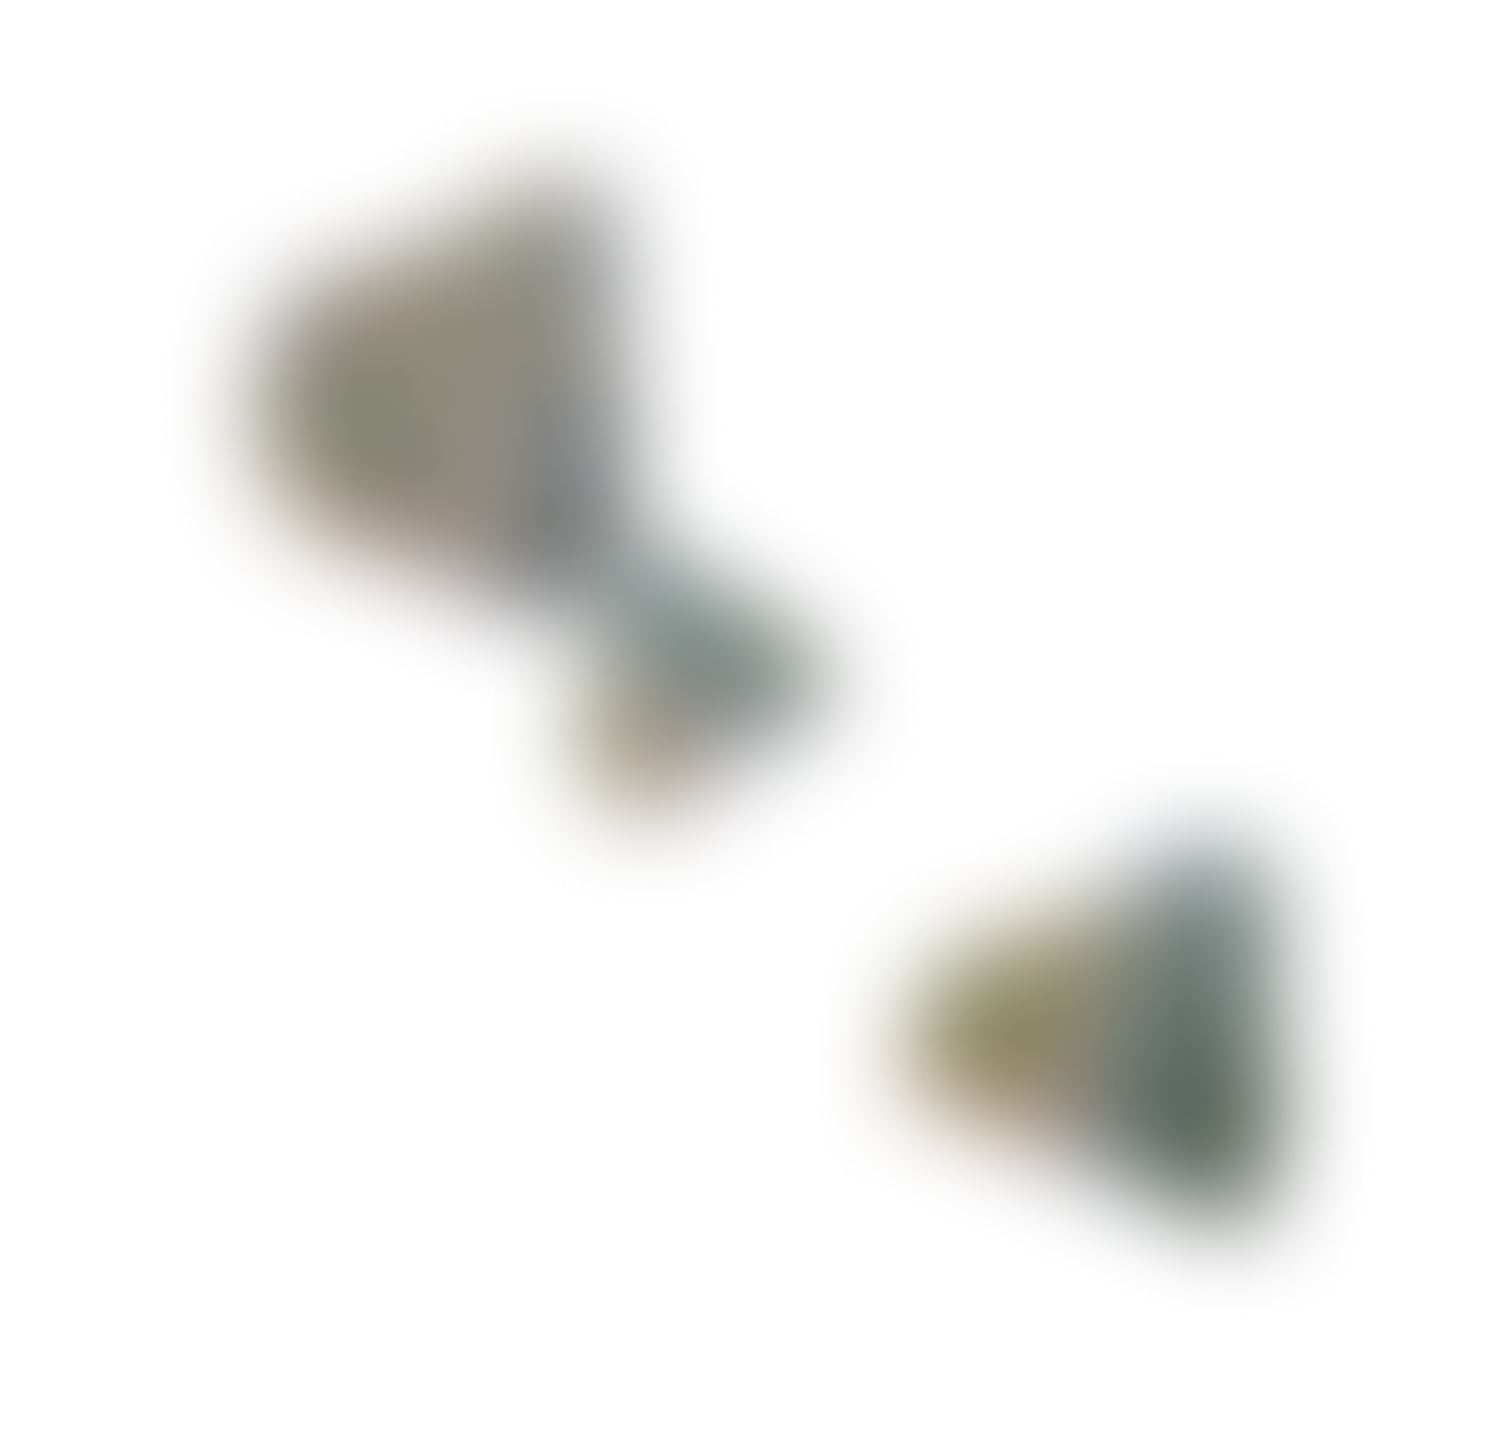
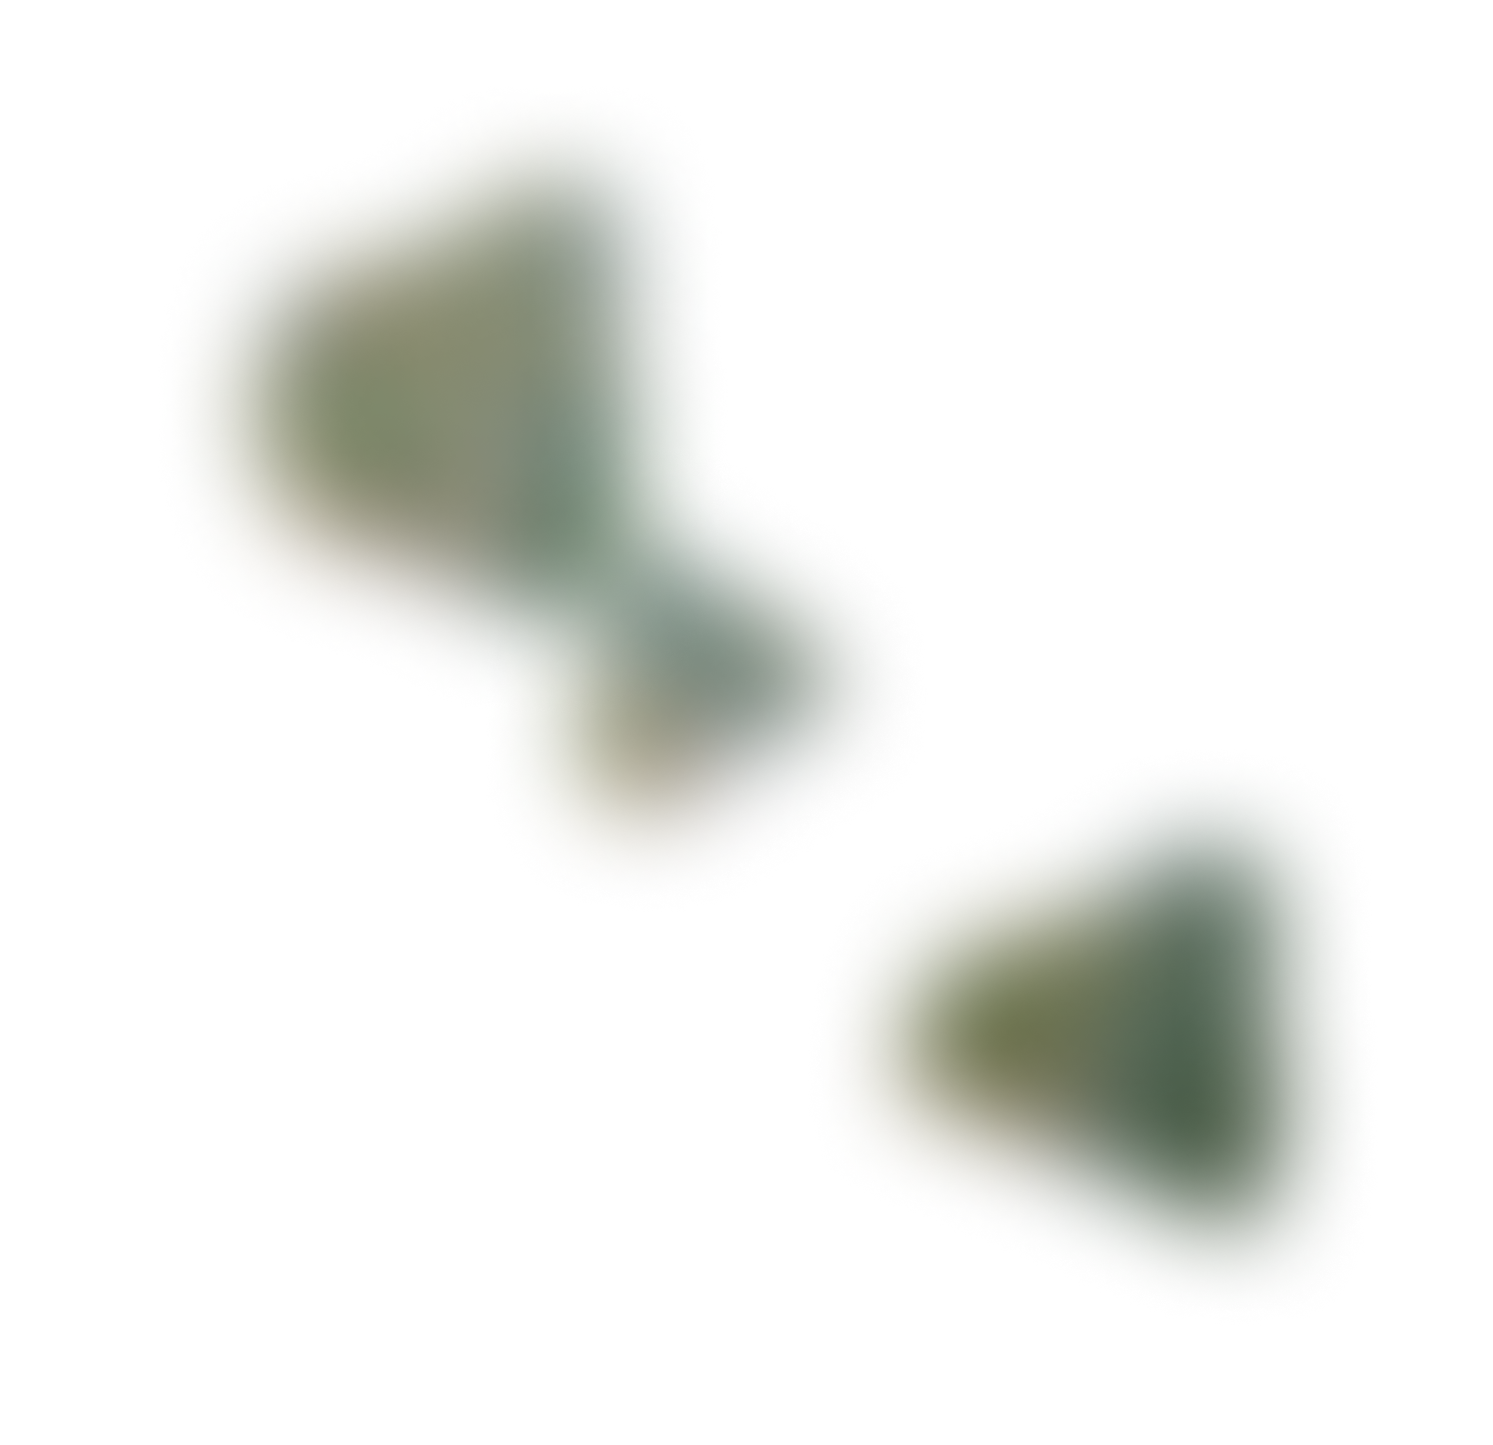
update all style  pages

Changed region(s): [[0.6162, 0.6228, 0.8319, 0.7785]]

diff --git a/components/pagination.js b/components/pagination.js
@@ -1,33 +1,50 @@
 /* eslint-disable react/jsx-key */
 import React from "react";
+import { useRouter } from "next/router";
 
-const MAX_ITEMS = 5;
+const MAX_ITEMS = 7;
 const MAX_LEFT = (MAX_ITEMS - 1) / 2;
 
 const Pagination = ({ limit, total, offset, setOffset }) => {
   const current = offset ? offset / limit + 1 : 1;
   const pages = Math.ceil(total / limit);
   const firstPage = Math.max(current - MAX_LEFT, 1);
+  const router = useRouter();
 
   return (
-    <ul className="pagination">
-      {Array.from({ length: Math.min(MAX_ITEMS, pages) })
-        .map((_, index) => index + firstPage)
-        .map((page) =>
-          total - (page * limit) + limit <= 0 ? (
-            ""
-          ) : (
-            <li key={page}>
-              <button
-                onClick={() => setOffset((page - 1) * limit)}
-                className={page === current ? "pagination__item--active" : null}
-              >
-                {page}
-              </button>
-            </li>
-          )
-        )}
-    </ul>
+      <ul className="pagination flex list-none justify-center pb-12">
+        {Array.from({ length: Math.min(MAX_ITEMS, pages) })
+          .map((_, index) => index + firstPage)
+          .map((page) =>
+            total - page * limit + limit <= 0 ? (
+              ""
+            ) : (
+              <li key={page}>
+                <button
+                  onClick={() => setOffset((page - 1) * limit)}
+                  className={`  ${
+                    page === current && router.pathname == "/characters"
+                      ? " bg-[#955E73] text-white border-none w-6 rounded-sm font-bold"
+                      : null
+                  }
+                ${
+                  page === current && router.pathname == "/comics"
+                    ? " bg-[#5E9595] text-white border-none w-6 rounded-sm font-bold"
+                    : null
+                }
+                ${
+                  page === current && router.pathname == "/series"
+                    ? " bg-[#64A94C] text-white border-none w-6 rounded-sm font-bold"
+                    : null
+                }
+                `}
+                >
+                  {page}
+                </button>
+              </li>
+            )
+          )}
+      </ul>
   );
 };
 

diff --git a/styles/globals.css b/styles/globals.css
@@ -37,17 +37,9 @@ html,
 @import url('http://fonts.cdnfonts.com/css/nimbus-sans-l');
 @import url('https://fonts.googleapis.com/css2?family=Poppins:wght@500&display=swap');
 
-/* all pages */
-section.caixa {
-    width: 100%;
-    background-color: #00000000;
-    border-radius: 18px;
-    border-width: 3px;
-}
+/* Cards*/
 
 .card {
-  opacity : 35%;
-  cursor: pointer;
   transition: 0.2s;
 }
 
@@ -68,7 +60,7 @@ section.caixa {
   opacity: 1;
 }
 
-/* Home */
+/* Backgrounds */
 
 .wppHome {
   background-color: #0B0B0C;
@@ -78,8 +70,6 @@ section.caixa {
   width: 100vw;
   height: 100vh;
 }
-
-/* Characters */
 
 .wppCharacters {
   background-color: #0B0B0C;
@@ -105,57 +95,30 @@ section.caixa {
   background-size: cover;
 }
 
-/* navbar Style */
+/* .bordaS {
+  border-radius: 15px;
+  border: 4px solid transparent;
+  background: linear-gradient(to right, #41383C, #64A94C, #41383C); 
+  -webkit-mask: 
+     linear-gradient(#fff 0 0) padding-box, 
+     linear-gradient(#fff 0 0);
+  -webkit-mask-composite: xor; 
+          mask-composite: exclude; 
+          
+} */
 
-.navbar.active {
-  background-color: #0b0b0c;
-}
-
-.navbar {
-  z-index: 10;
-}
-
-.imgCard {
-    width: 200px;
-    height: 200px;
-    border-radius: 8px;
-}
-
-
-/* buttons */
-
-.button {
-  border: solid;
-  border-width: 1.9px;
-  color: white;
-  border-radius: 8px;
-  display: inline-block;
-  margin: 32px 0px 0px 0px;
-  cursor: pointer;
-}
-
-input::placeholder{
-  color: #767676;  
-}
-
-.pagination {
-  display: flex;
-  align-items: center;
-  text-align: center;
-  list-style: none;
-}
+/* Others */
 
 .pagination li + li {
   margin-left: 1rem;
 }
 
-.pagination__item--active {
-  background: #B7758E;
-  font-weight: bold;
-  color: #ffffff;
-  border: none;
-  width: 25px;
-  border-radius: 3px;
+.navbar.active {
+  background-color: #0b0b0c;
+}
+
+input::placeholder{
+  color: #767676;  
 }
 
 /* .behind {

diff --git a/pages/series/index.js b/pages/series/index.js
@@ -85,14 +85,14 @@ export default function Series() {
           onKeyDown={(e) => setInput(e.target.value)}
         />
         <button
-          className="border-none px-4 flex my-[4.5px] items-center h-7 rounded bg-[#EBF1A5] text-sm"
+          className="border-none px-4 flex my-[4.5px] items-center h-7 rounded bg-[#64A94C] text-sm"
           type="button"
         >
           Ok
         </button>
       </div>
 
-      <section className="caixa my-12 border-[#EBF1A5]">
+      <section className="bordaS w-full bg-black bg-opacity-0 rounded-4xl border-4 my-12">
         <div className="py-14 md:mx-12 mx-2 block">
           <ul className="lista gap-x-20 gap-y-12 list-none flex justify-center flex-wrap">
             {loading ? (
@@ -103,11 +103,11 @@ export default function Series() {
                   <section key={serie.id} className="behind">
                     <div className="caixinhas">
                       <li
-                        className="card flex relative items-end overflow-hidden"
+                        className="card cursor-pointer opacity-30 flex relative items-end overflow-hidden"
                         key={serie.id}
                         onClick={() => handleOpenModal(serie)}
                       >
-                        <div className="bg-[#EBF1A5] absolute z-10 text-sm truncate max-card text-center w-full p-2 rounded-bl-lg rounded-br-lg">
+                        <div className="bg-[#64A94C] absolute z-10 text-sm truncate max-card text-center w-full p-2 rounded-bl-lg rounded-br-lg">
                           {serie.title}
                         </div>
                         <Image

diff --git a/pages/comics/index.js b/pages/comics/index.js
@@ -91,7 +91,7 @@ export default function Comics() {
         </button>
       </div>
       
-      <section className="caixa border-[#5E9595] my-12">
+      <section className="w-full bg-black bg-opacity-0 rounded-2xl border-4 my-12 border-[#5E9595] ">
         <div className="py-14 md:mx-12 mx-2 block">
           <ul className="lista gap-x-20 gap-y-12 list-none flex justify-center flex-wrap">
             {loading ? (
@@ -102,7 +102,7 @@ export default function Comics() {
                   <section key={comic.id} className="behind">
                     <div className="caixinhas">
                       <li
-                        className="card flex relative items-end overflow-hidden"
+                        className="card cursor-pointer opacity-30 flex relative items-end overflow-hidden"
                         key={comic.id}
                         onClick={() => handleOpenModal(comic)}
                       >
@@ -113,7 +113,7 @@ export default function Comics() {
                           width="150"
                           height="230"
                           loader={myLoader}
-                          className="imgCard"
+                          className="rounded-lg object-cover"
                           src={`${comic.thumbnail.path}.${comic.thumbnail.extension}`}
                           alt={comic.title}
                         />

diff --git a/pages/characters/index.js b/pages/characters/index.js
@@ -92,7 +92,7 @@ export default function Characters() {
         </button>
       </div>
 
-      <section className="caixa my-12 border-[#955E73]">
+      <section className=" w-full bg-black bg-opacity-0 rounded-2xl border-[3px] my-12 border-[#955E73]">
         <div className="py-14 md:mx-12 mx-2 block">
           <ul className="lista gap-x-20 gap-y-12 list-none flex justify-center flex-wrap">
             {loading ? (
@@ -103,7 +103,7 @@ export default function Characters() {
                   <section key={character.id} className="behind">
                     <div className="caixinhas">
                       <li
-                        className="card flex relative items-end overflow-hidden"
+                        className="card cursor-pointer opacity-30 flex relative items-end overflow-hidden"
                         key={character.id}
                         onClick={() => handleOpenModal(character)}
                       >

diff --git a/pages/index.js b/pages/index.js
@@ -7,7 +7,7 @@ export default function App() {
       <p className="md:text-sm md:text-start text-center text-xs md:w-1/4 md:px-0 px-20 "> Aqui você vai poder encontrar todos os dados que a API da marvel fornece! Como personagens, histórias em quadrinhos, séries, etc.</p>
       <div className="md:text-start text-center">
       <Link href="https://github.com/strawnico/MarvelPage">
-       <a className="button md:py-2 py-1 md:px-10 px-4 md:text-base text-sm" target="blank" type="button" >Repositório</a>
+       <a className=" border-solid border-2 cursor-pointer text-white rounded-lg mt-8 md:py-2 py-1 md:px-10 px-4 md:text-base text-sm" target="blank" type="button" >Repositório</a>
       </Link>
       </div>
     </div>

diff --git a/components/navbar.js b/components/navbar.js
@@ -22,7 +22,7 @@ function Navbar() {
   }
 
   return (
-    <nav className={navbar ? "navbar active w-full fixed background-image" : "w-full fixed" }>
+    <nav className={navbar ? "navbar active z-10 w-full fixed background-image" : "w-full fixed" }> 
       <div className="justify-between px-3 mx-auto md:flex">
         <div>
           <div className="flex items-center justify-between py-3 md:py-5 md:px-3 md:block">
